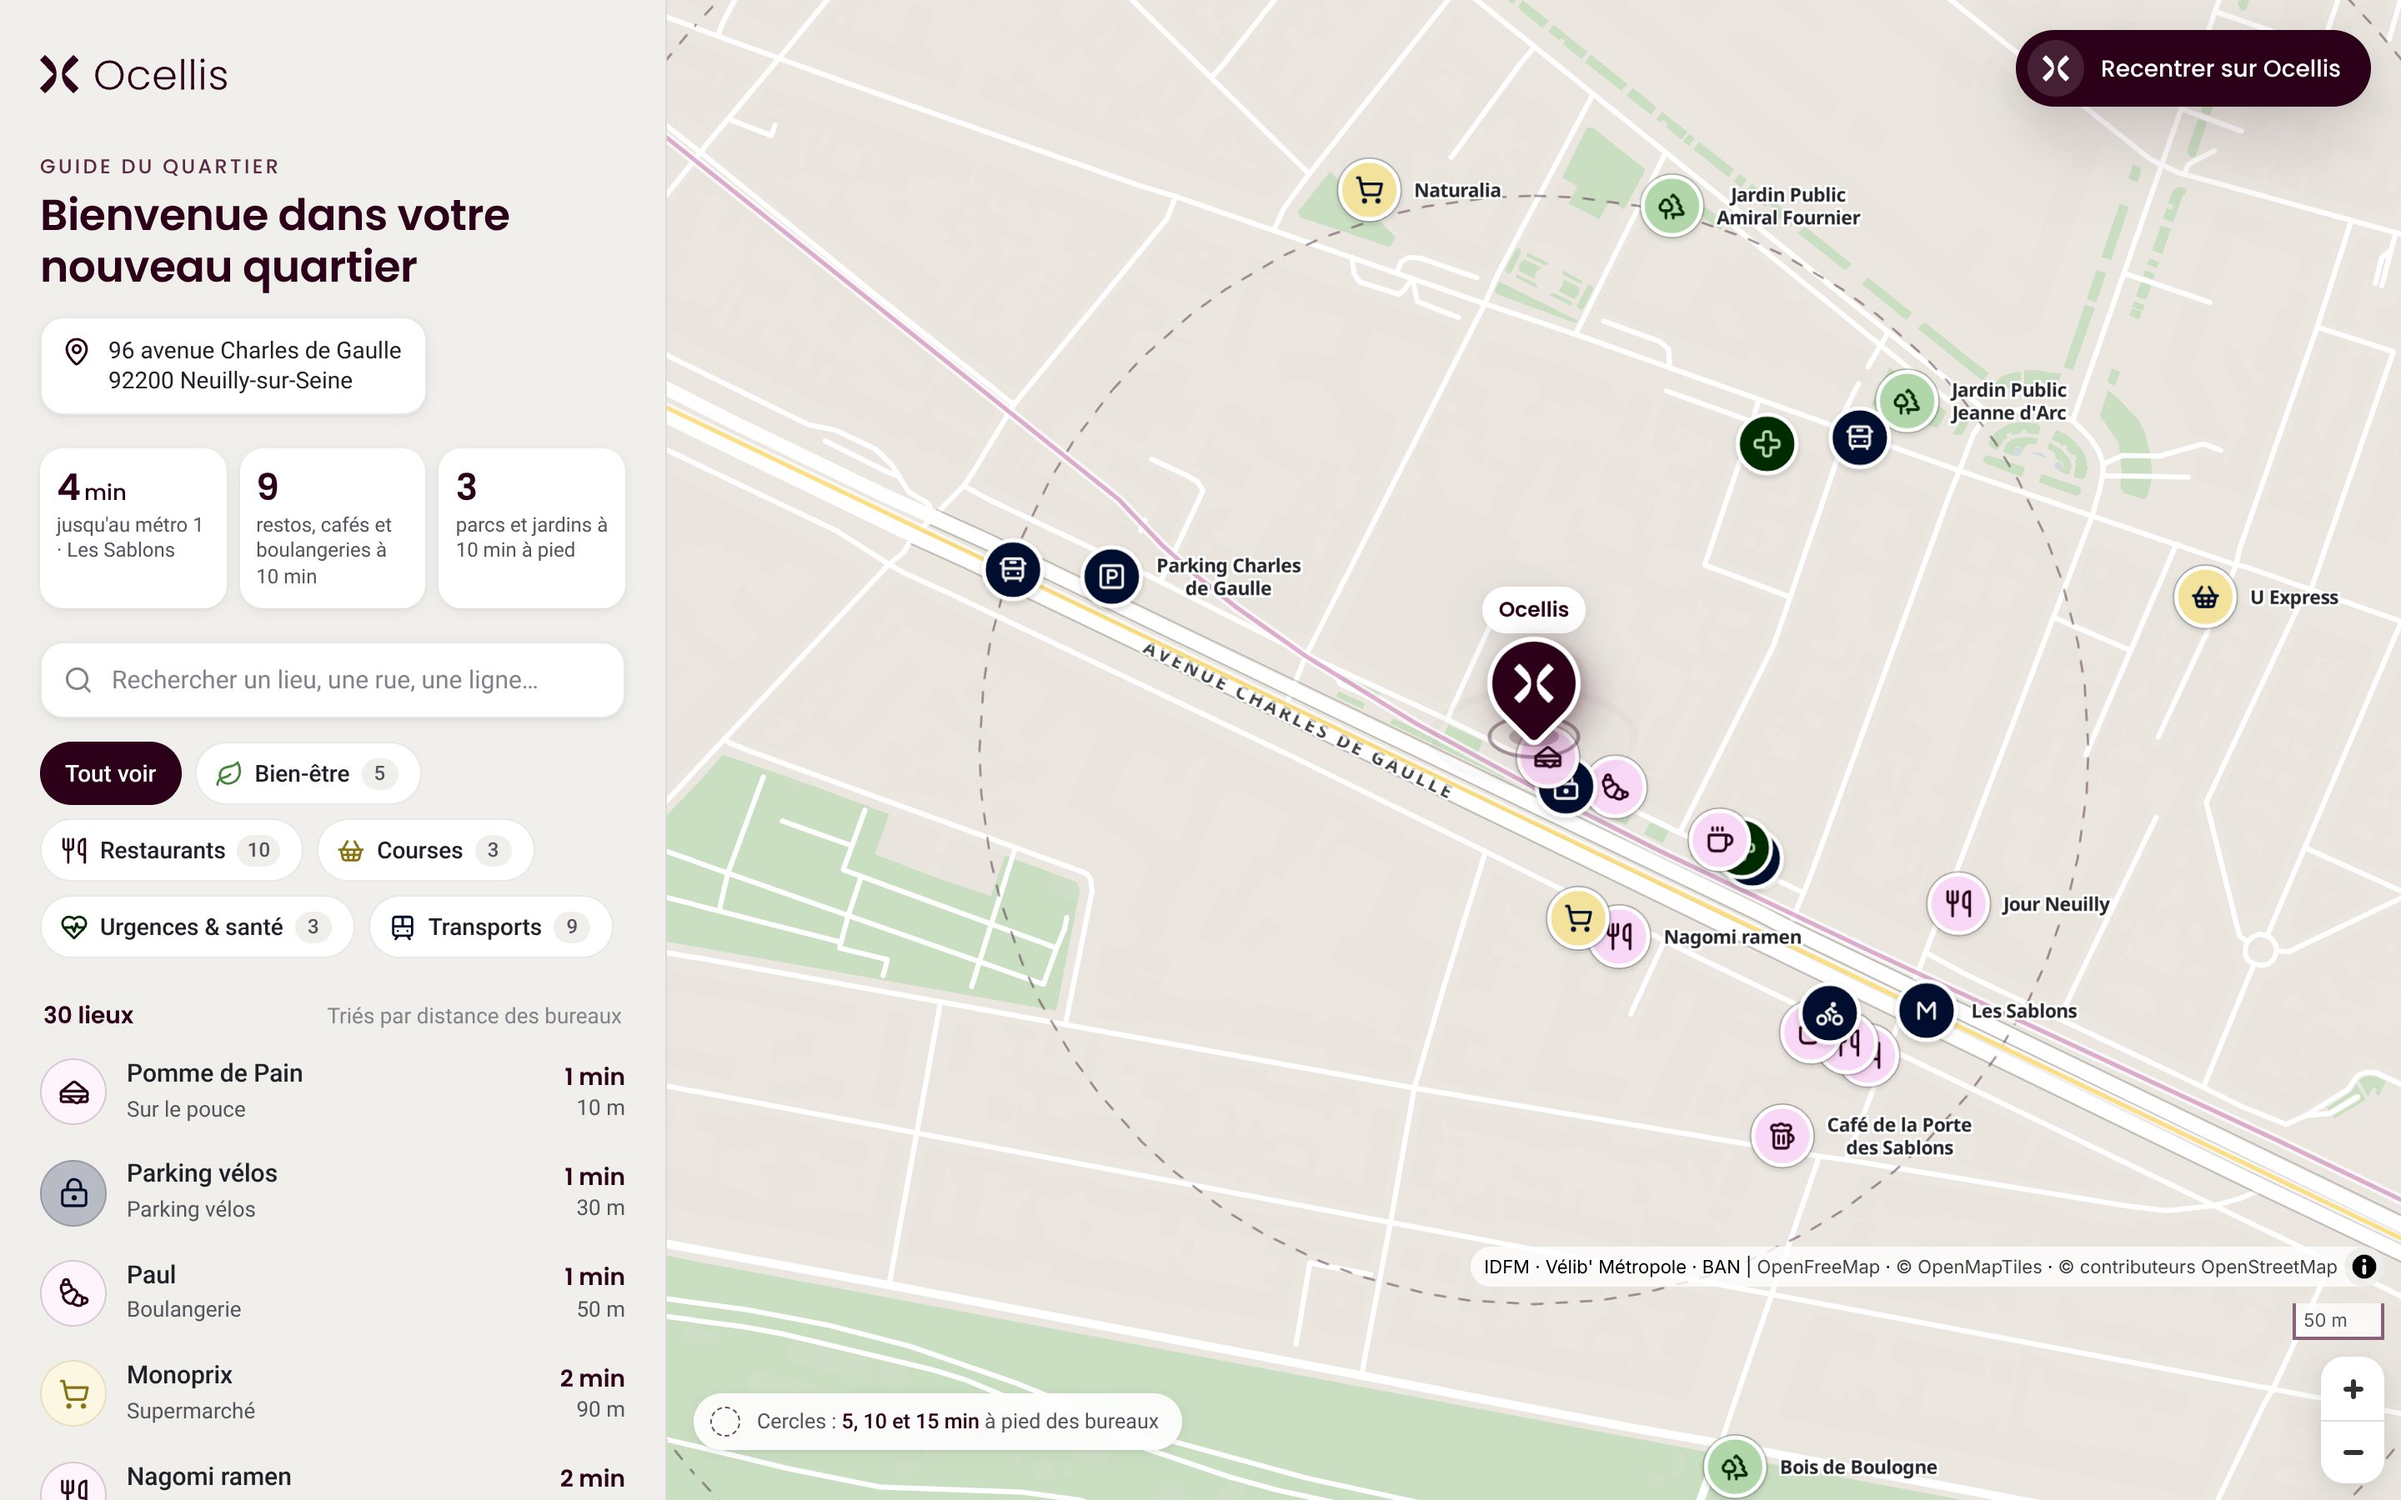
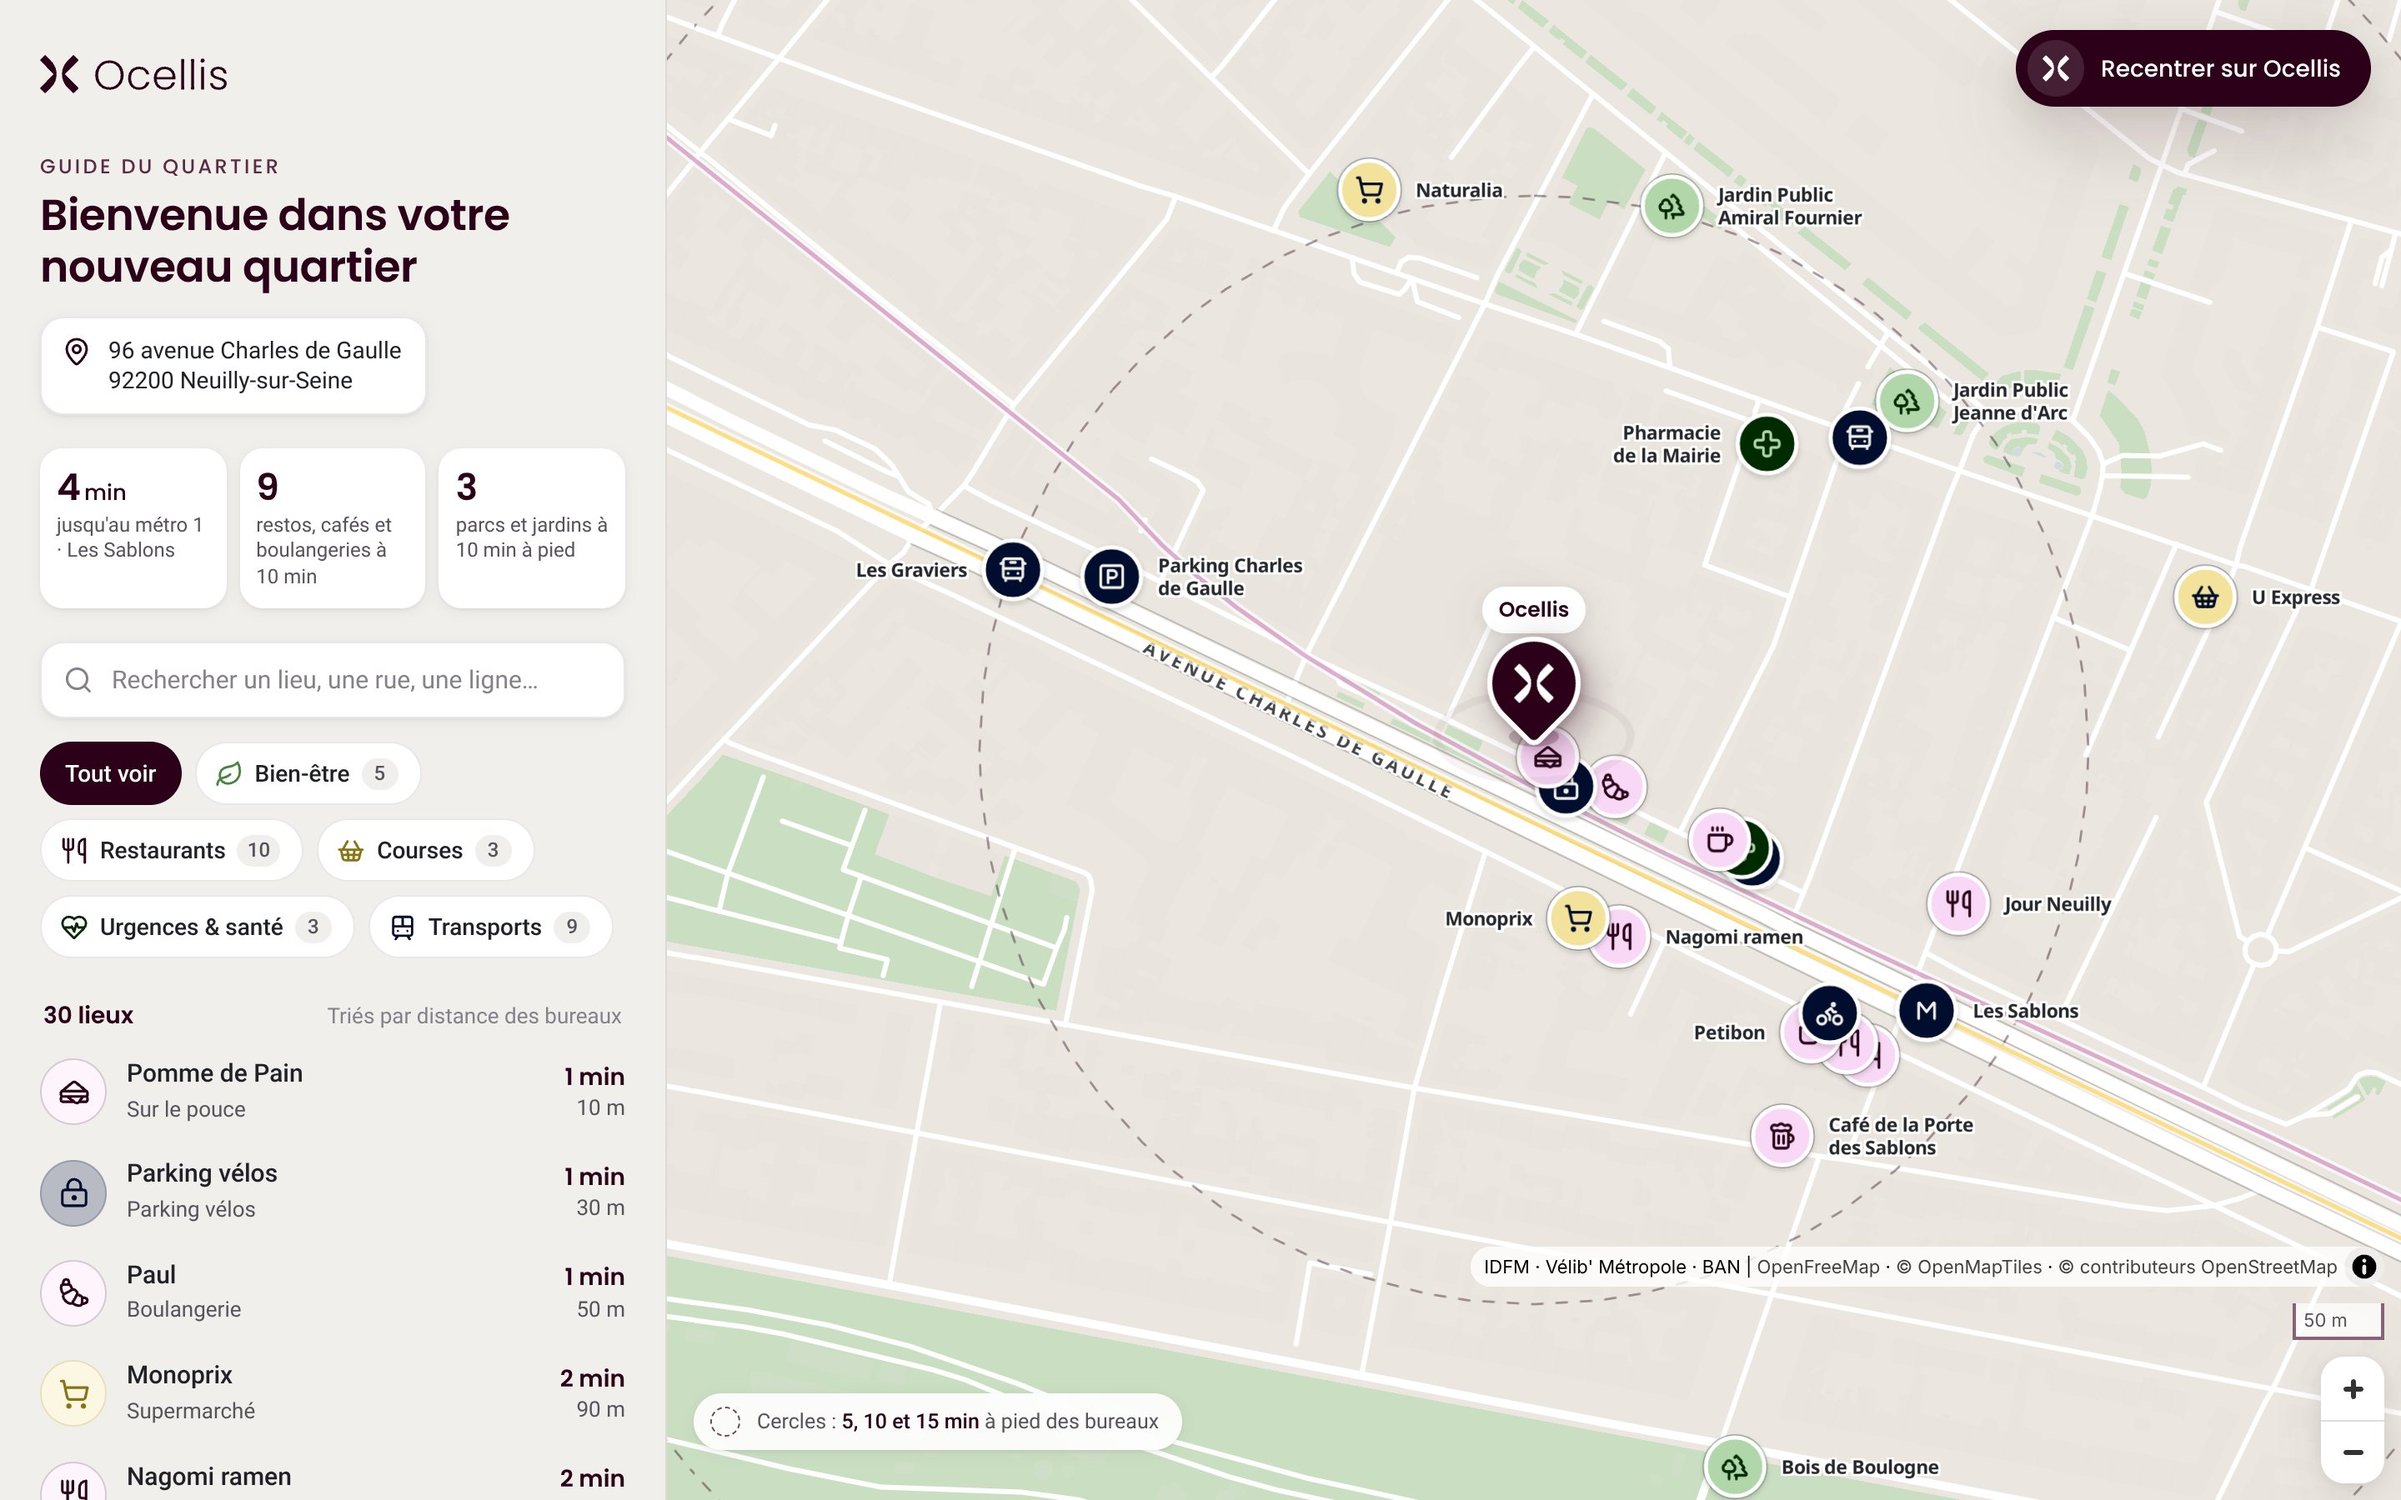
Noms des lieux : placement à gauche, dessous ou dessus si la droite est prise
Le nom du Monoprix (113 avenue Charles de Gaulle, en face des bureaux) était
masqué par celui du restaurant voisin ; les libellés choisissent désormais
un côté libre autour de leur pastille, sans jamais la chevaucher.

Claude-Session: https://claude.ai/code/session_01HHKWByJ1UGMeUP9sBrXz3t

diff --git a/assets/js/app.js b/assets/js/app.js
@@ -354,9 +354,11 @@ function initMap() {
         'text-field': ['get', 'name'],
         'text-font': ['Noto Sans Bold'],
         'text-size': ['interpolate', ['linear'], ['zoom'], 15, 11, 18, 12.5],
-        'text-anchor': 'left',
-        // Décalage au-delà de l'emprise de la pastille (ombre comprise), pour ne pas la chevaucher.
-        'text-offset': ['interpolate', ['linear'], ['zoom'], 15, ['literal', [2.35, 0]], 18, ['literal', [2.3, 0]]],
+        // Le nom se place à droite de la pastille, ou à gauche, dessous, dessus si la place est prise,
+        // à une distance qui dépasse l'emprise de la pastille (ombre comprise) pour ne jamais la chevaucher.
+        'text-variable-anchor': ['left', 'right', 'top', 'bottom'],
+        'text-radial-offset': ['interpolate', ['linear'], ['zoom'], 15, 2.35, 18, 2.3],
+        'text-justify': 'auto',
         'text-max-width': 9,
         'text-padding': 1,
         'symbol-sort-key': ['get', 'd'],
